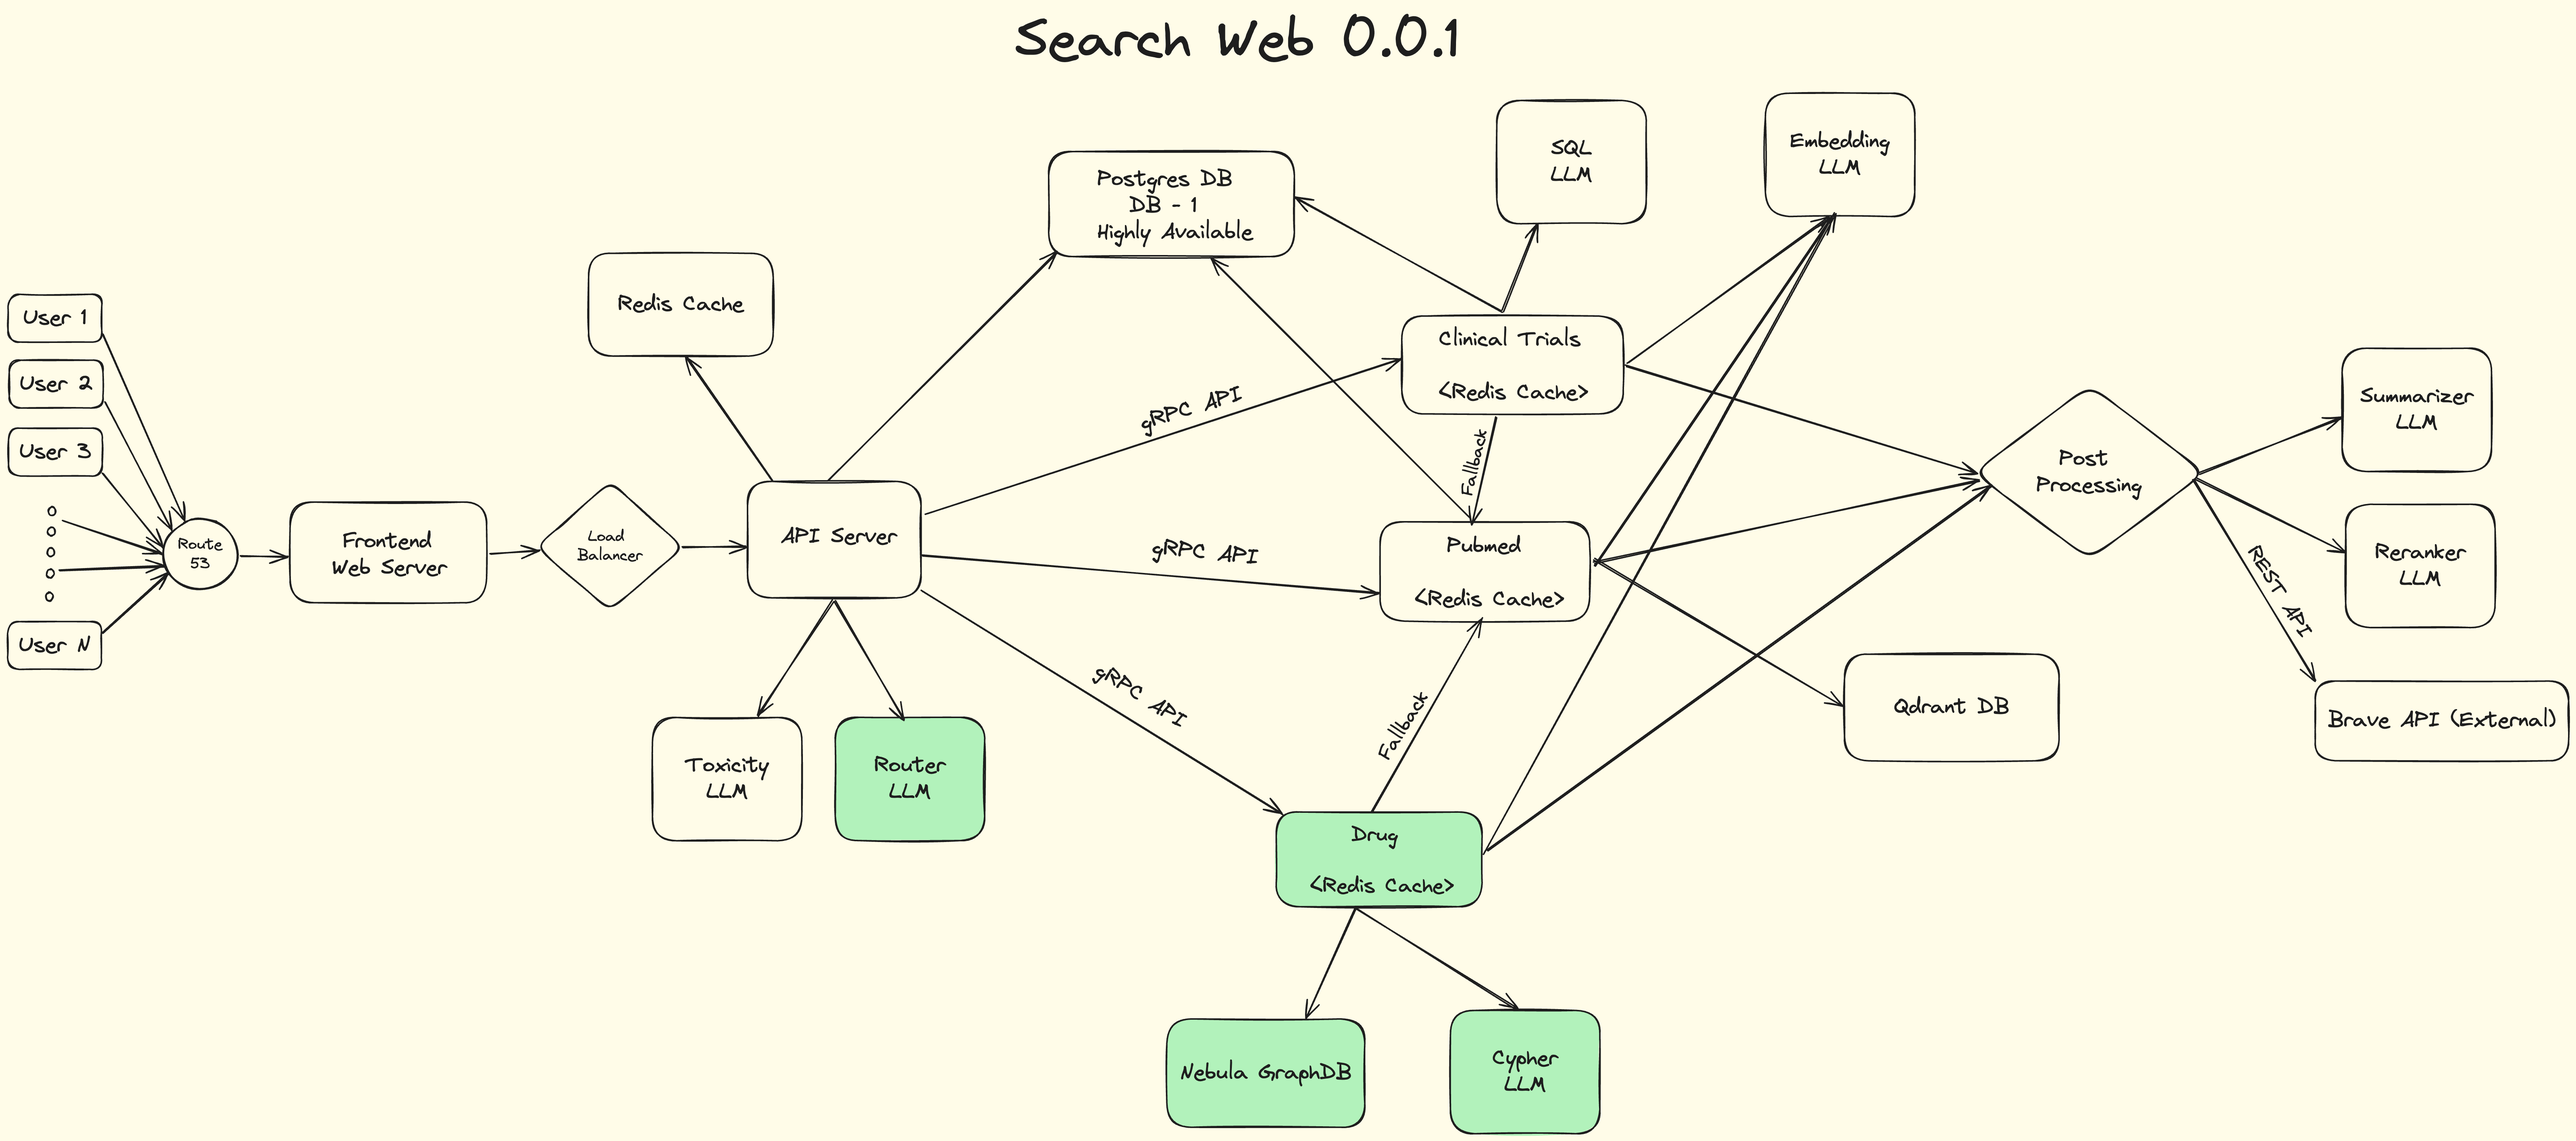
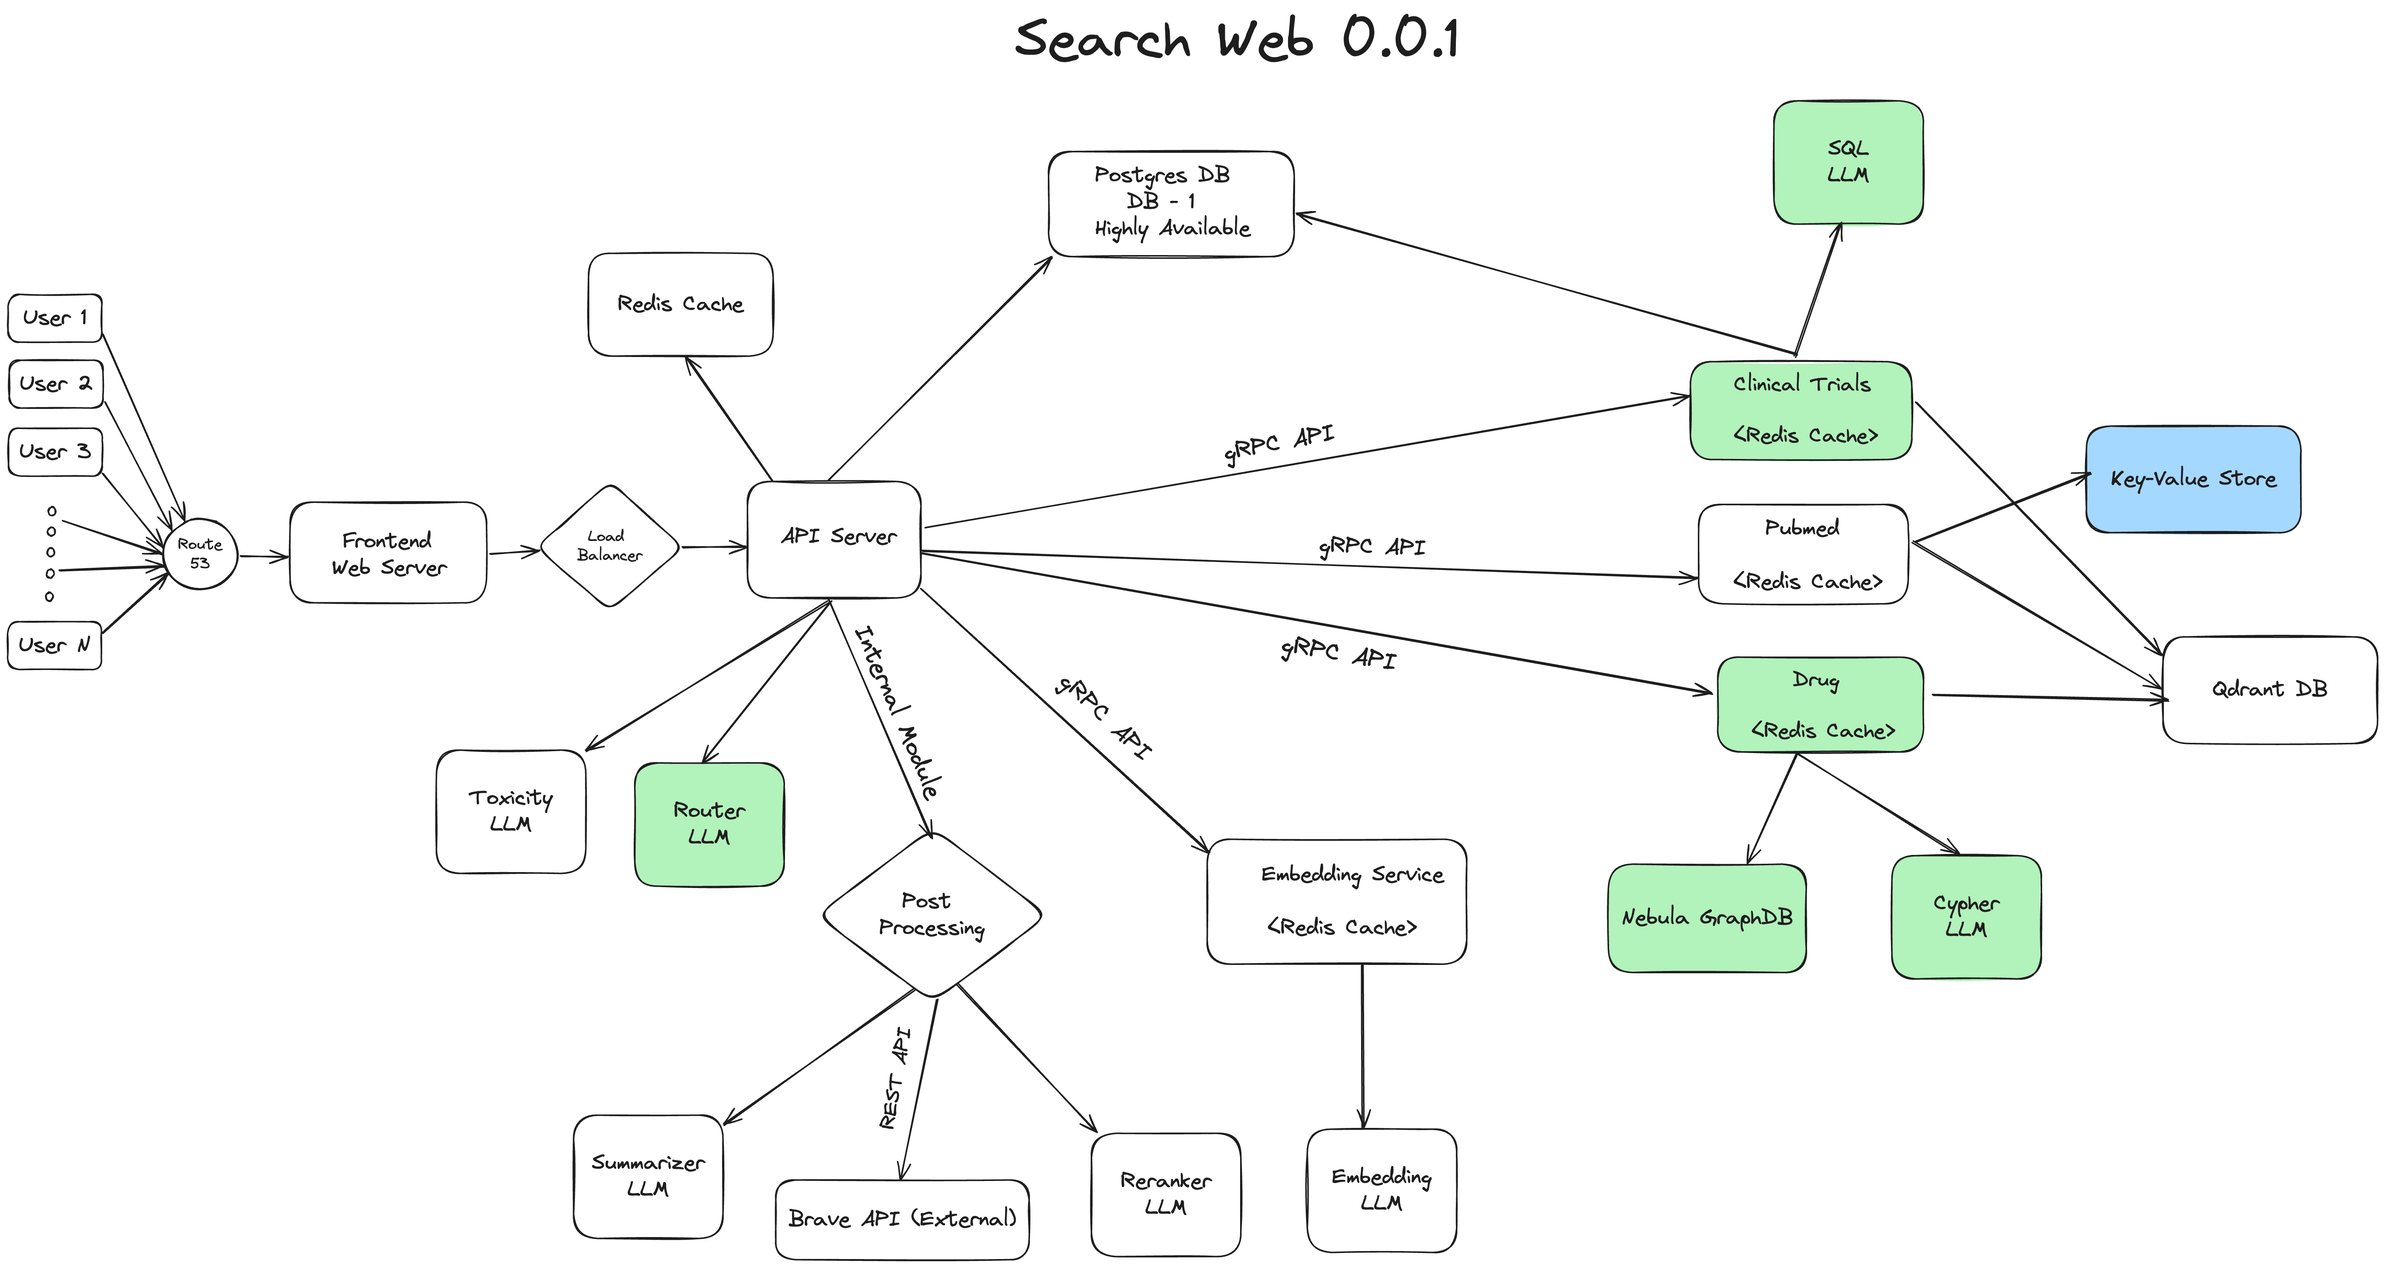
:construction: modified search hld and add single search query

diff --git a/architecture/README.md b/architecture/README.md
@@ -14,6 +14,7 @@
   - [User Flow](#user-flow)
     - [Features and User Actions](#features-and-user-actions)
   - [High Level Architecture](#high-level-architecture-2)
+  - [Single Search Query Flow](#single-search-query-flow)
   - [Data Models](#data-models)
     - [Frontend](#frontend)
     - [API Server](#api-server)
@@ -83,6 +84,9 @@ The `Search Web Services` component is responsible for providing the search func
 
 ## High Level Architecture
 ![High Level Architecture](images/search_hld.png)
+
+## Single Search Query Flow
+![Single Search Query Flow](images/search_single_query_flow.png)
 
 ## Data Models
 ![Data Models](images/search_uml.png)
